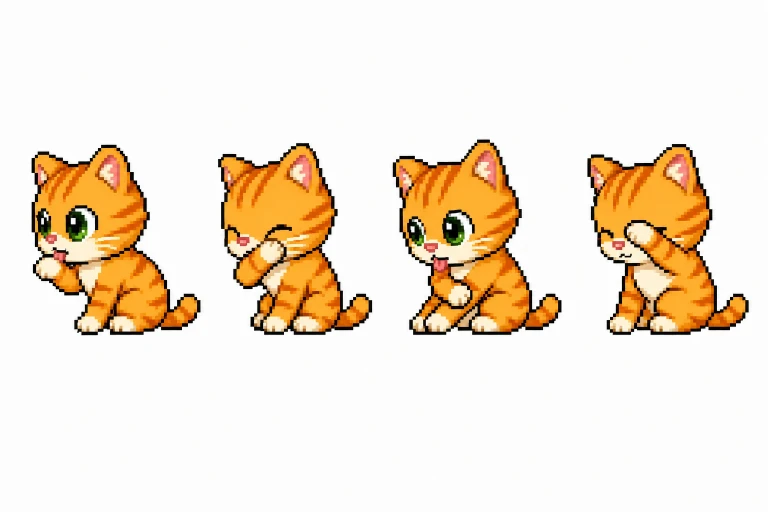
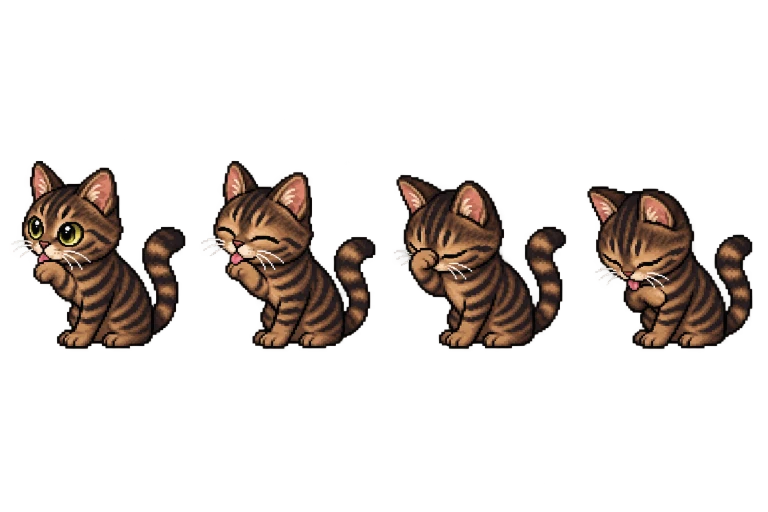
Regenerate cat NPCs mimi/ongi/boksil from real photos

Changed region(s): [[0.0312, 0.25, 1.0, 0.6875]]

diff --git a/CLAUDE.md b/CLAUDE.md
@@ -135,7 +135,7 @@ prompt/                 캐릭터/걷기 스프라이트 생성용 프롬프트 
 
 ## NPC (`js/npcs.js`, `NpcCharacter`)
 - 푸딩(흰 토끼, 늘 꽃가루), 얼룩말(하트 선글라스, 서 있으면 비눗방울, 걸으면 파티 블로어 + 음표), 고양이 4마리(미미·옹이·복실이·별이(흰 페르시안): 어슬렁/그루밍/자기), 에쏘(크림색 보더콜리, 신랑·신부 주변 ±170px 뛰어다님, 앉아서 뒷다리로 머리 긁기), 몽실이(흰 페키니즈: 천천히 걷기, 올려다보기, 핑크 삑삑이 덤벨 물고 앉기), 택시(고정, 파스텔 웨딩 택시를 앞·옆이 함께 보이는 3/4 입체 각도로. `npc.tilt`를 주면 발판 기울기에 맞춰 기울임 — 입체 이미지라 택시는 안 씀).
-- 푸딩·에쏘·별이·몽실이는 실제 사진 `img/npc/<id>/origin.jpg` 기반으로 생성(사진은 개인 사진이라 `.gitignore`로 저장소에 안 올림 — 다시 생성하려면 로컬에 있어야 함).
+- 푸딩·에쏘·고양이 4마리·몽실이는 실제 사진 `img/npc/<id>/origin.jpg` 기반으로 생성(사진은 개인 사진이라 `.gitignore`로 저장소에 안 올림 — 다시 생성하려면 로컬에 있어야 함).
 - NPC 이미지는 OpenAI `background: transparent`로 생성. `removeBackground`는 네 귀퉁이가 투명한 이미지면 흰색을 지우지 않음(흰 털이 뚫리던 문제).
 - `NpcCharacter extends GuestCharacter`: 점프·사다리·로프 안 씀(canJump/canClimb=false), 조종 불가(팝업에 조종 버튼 없음). 동작은 idle/walk + NPC별 특수 동작(sleep, scratch…, `states`에 비율·`<동작>Time`), NPC별 height·motionFrames·motionHeight.
 - 효과는 `NpcEffect`(Phaser 파티클: 꽃잎 재사용, 비눗방울·음표 텍스처는 코드로 생성).
